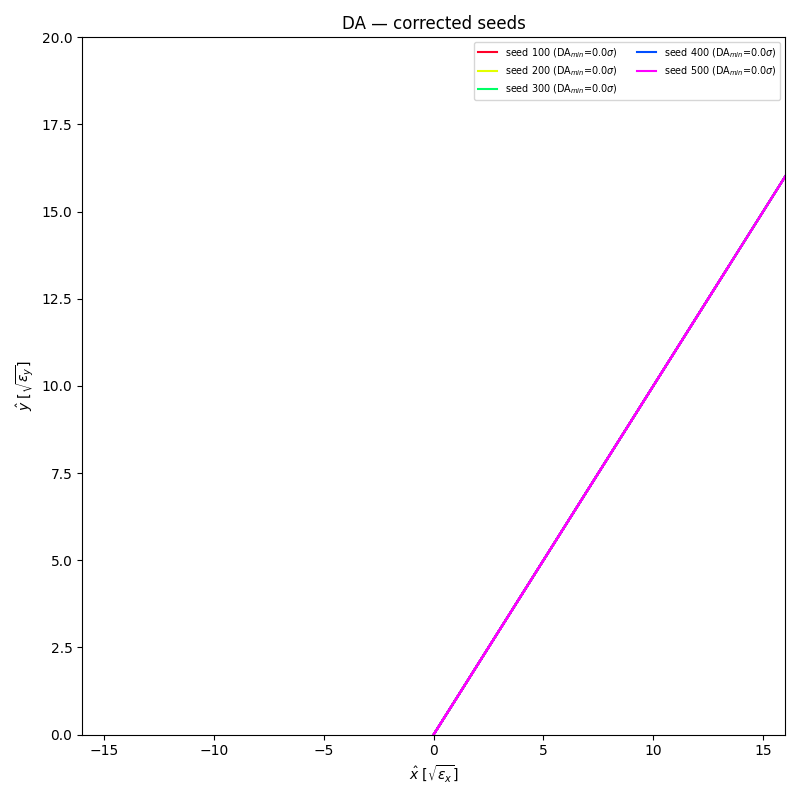
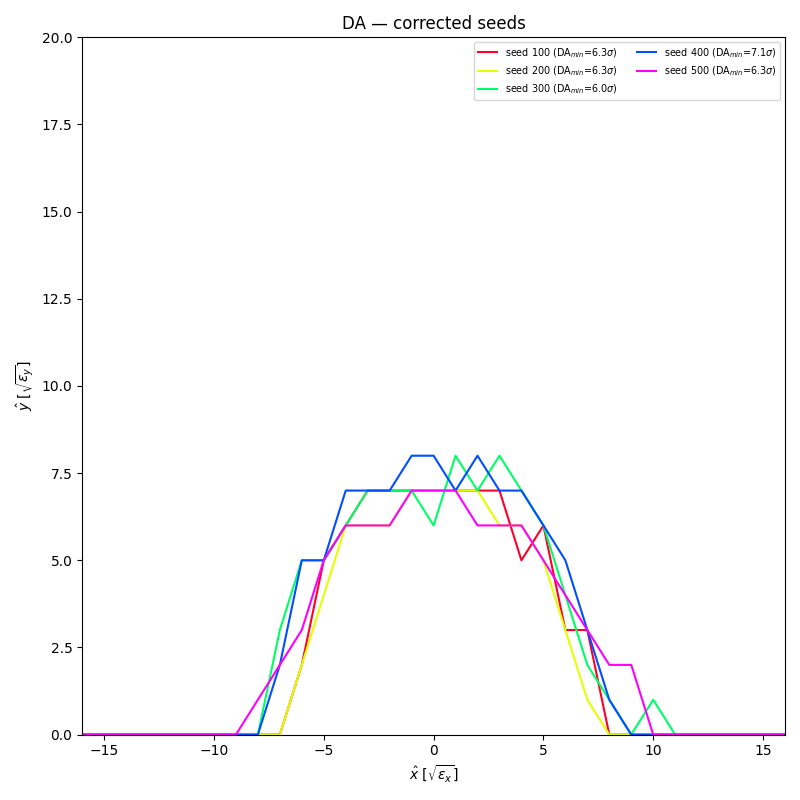
DA/MA plots

diff --git a/analysis.py b/analysis.py
@@ -24,8 +24,8 @@ from matplotlib.backends.backend_pdf import PdfPages
 xo.context_cpu.allow_no_prebuilt_kernel = True
 
 # %%
-design=int(os.environ.get('DESIGN',3))
-config=int(os.environ.get('CONFIG',4))
+design=int(os.environ.get('DESIGN',1))
+config=int(os.environ.get('CONFIG',9))
 mode=os.environ.get('MODE','perfect')
 phase=int(os.environ.get('PHASE',90))
 changes=os.environ.get('CHANGES',None)
@@ -842,36 +842,34 @@ if mode=='perfect':
         return seed_line
 
 
-    def get_DA_for_seed(base_line, seed, apply_correction, study_params_DA):
+    # ---- combined DA+MA for one seed: prep the line ONCE (misalign + optional
+    #      correction), then run both studies on it, instead of prepping twice ----
+
+    def get_DA_and_MA_for_seed(base_line, seed, apply_correction, study_params_DA, study_params_MA):
         seed_line = prep_seed_line(base_line, seed, apply_correction)
         seed_line.discard_tracker()
         seed_line.build_tracker(_context=context_tracking)
         seed_line.configure_radiation(model='mean')
 
-        particles, grid_details = xutil.generate_particle_grid(seed_line, study_params_DA)
-        seed_line.track(particles, num_turns=study_params_DA['number_of_turns'],
-                        turn_by_turn_monitor=True, time=True, with_progress=10)
-        particles.sort(interleave_lost_particles=True)
+        # --- DA ---
+        particles_DA, grid_DA = xutil.generate_particle_grid(seed_line, study_params_DA)
+        seed_line.track(particles_DA, num_turns=study_params_DA['number_of_turns'],
+                         turn_by_turn_monitor=False, time=True, with_progress=10)
+        particles_DA.sort(interleave_lost_particles=True)
+        da_result = get_DA_boundary(particles_DA, grid_DA['num_r_y_points'],
+                                     grid_DA['num_theta_x_points'],
+                                     grid_DA['x_normalized'], grid_DA['y_normalized'])
 
-        return get_DA_boundary(particles, grid_details['num_r_y_points'],
-                                grid_details['num_theta_x_points'],
-                                grid_details['x_normalized'], grid_details['y_normalized'])
+        # --- MA ---
+        particles_MA, grid_MA = xutil.generate_particle_grid(seed_line, study_params_MA)
+        seed_line.track(particles_MA, num_turns=study_params_MA['number_of_turns'],
+                         turn_by_turn_monitor=False, time=True, with_progress=10)
+        particles_MA.sort(interleave_lost_particles=True)
+        ma_result = get_MA_boundary(particles_MA, grid_MA['num_r_y_points'], 51,
+                                     grid_MA['x_normalized'], grid_MA['y_normalized'],
+                                     grid_MA['delta_init'])
 
-
-    def get_MA_for_seed(base_line, seed, apply_correction, study_params_MA):
-        seed_line = prep_seed_line(base_line, seed, apply_correction)
-        seed_line.discard_tracker()
-        seed_line.build_tracker(_context=context_tracking)
-        seed_line.configure_radiation(model='mean')
-
-        particles, grid_details = xutil.generate_particle_grid(seed_line, study_params_MA)
-        seed_line.track(particles, num_turns=study_params_MA['number_of_turns'],
-                        turn_by_turn_monitor=True, time=True, with_progress=10)
-        particles.sort(interleave_lost_particles=True)
-
-        return get_MA_boundary(particles, grid_details['num_r_y_points'], 51,
-                                grid_details['x_normalized'], grid_details['y_normalized'],
-                                grid_details['delta_init'])
+        return da_result, ma_result
 
 
     # ---- run: misaligned seeds first, then corrected seeds ----
@@ -913,24 +911,22 @@ if mode=='perfect':
 
     # --- pass 1: misaligned ---
     for seed, c in zip(seeds, colors):
-        x_DA, y_DA, min_DA = get_DA_for_seed(ring, seed, apply_correction=False,
-                                            study_params_DA=study_params_DA)
+        (x_DA, y_DA, min_DA), (x_MA, delta_MA, min_MA) = get_DA_and_MA_for_seed(
+            ring, seed, apply_correction=False,
+            study_params_DA=study_params_DA, study_params_MA=study_params_MA)
+
         ax_da_mis.plot(x_DA, y_DA, '-', color=c,
                     label=f'seed {seed} (DA$_{{min}}$={min_DA:.1f}$\\sigma$)')
-
-        x_MA, delta_MA, min_MA = get_MA_for_seed(ring, seed, apply_correction=False,
-                                                study_params_MA=study_params_MA)
         ax_ma_mis.plot(delta_MA * 100, x_MA, '-', color=c, label=f'seed {seed}')
 
     # --- pass 2: corrected ---
     for seed, c in zip(seeds, colors):
-        x_DA, y_DA, min_DA = get_DA_for_seed(ring, seed, apply_correction=True,
-                                            study_params_DA=study_params_DA)
+        (x_DA, y_DA, min_DA), (x_MA, delta_MA, min_MA) = get_DA_and_MA_for_seed(
+            ring, seed, apply_correction=True,
+            study_params_DA=study_params_DA, study_params_MA=study_params_MA)
+
         ax_da_cor.plot(x_DA, y_DA, '-', color=c,
                     label=f'seed {seed} (DA$_{{min}}$={min_DA:.1f}$\\sigma$)')
-
-        x_MA, delta_MA, min_MA = get_MA_for_seed(ring, seed, apply_correction=True,
-                                                study_params_MA=study_params_MA)
         ax_ma_cor.plot(delta_MA * 100, x_MA, '-', color=c, label=f'seed {seed}')
 
     # ---- formatting + saving, one block per plot ----
